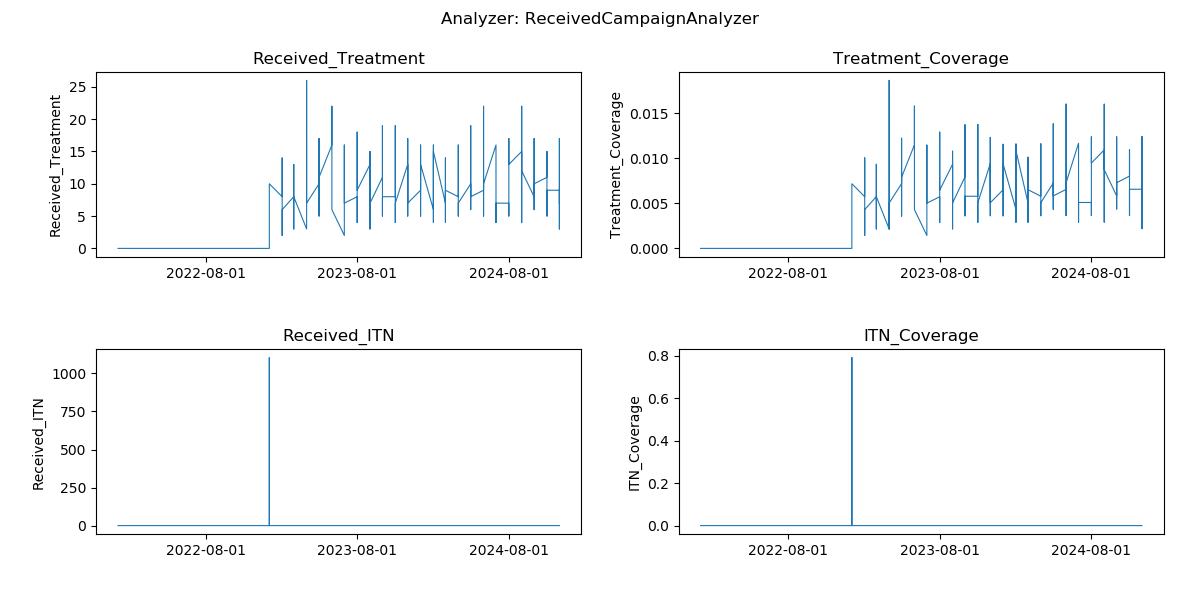
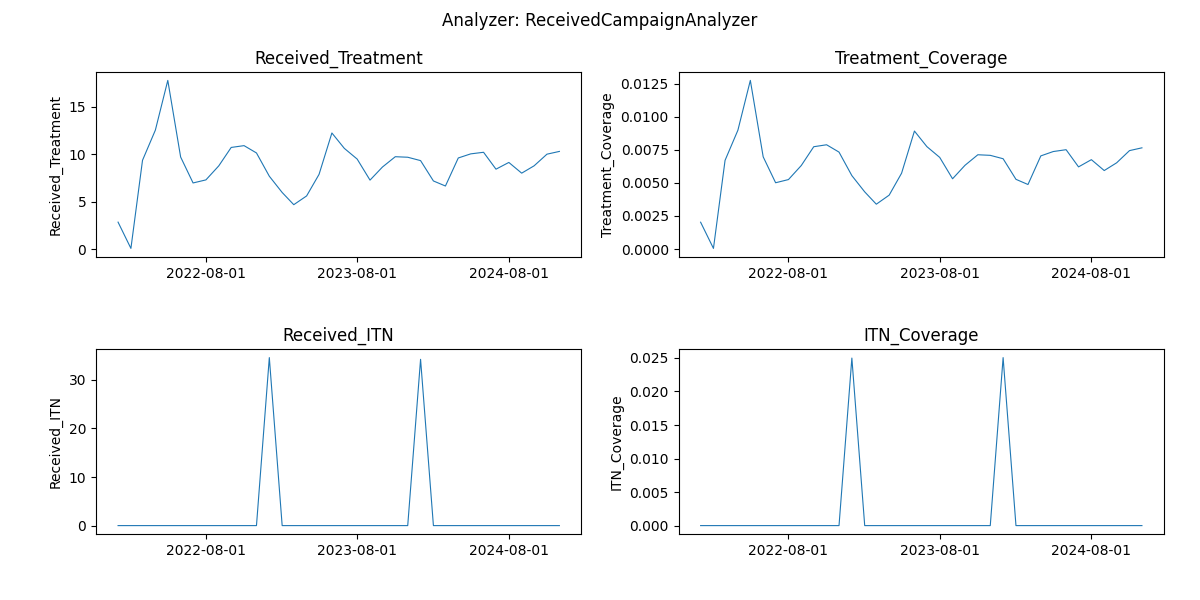
bugfix in event analyzer plot week 3a

diff --git a/analyze_exampleSim_w3a.py b/analyze_exampleSim_w3a.py
@@ -67,13 +67,17 @@ def plot_events(event_list) :
     # read in analyzed event data
     df = pd.read_csv(os.path.join(working_dir, expt_name, 'Event_Count.csv'))
     df['date'] = pd.to_datetime(df['date'])
+    cov_channel_list = ['%s_Coverage' % x[9:] for x in event_list]
+    cov_channel_list = [x for x in cov_channel_list if x in df.columns.values]
+    df = df.groupby(['date'])[event_list + cov_channel_list].agg(np.mean).reset_index()
 
     # make event plot
     fig3 = plt.figure('Events', figsize=(12,3*len(event_list)))
     fig3.subplots_adjust(hspace=0.5, left=0.08, right=0.97)
     fig3.suptitle(f'Analyzer: ReceivedCampaignAnalyzer')
+    axes = [fig3.add_subplot(len(event_list), 2, x + 1) for x in range(len(event_list)*2)]
     for ch, channel in enumerate(event_list) :
-        ax = fig3.add_subplot(len(event_list),2,ch*2+1)
+        ax = axes[ch*2]
         ax.plot(df['date'], df[channel], '-', linewidth=0.8)
         ax.set_title(channel)
         ax.set_ylabel(channel)
@@ -83,7 +87,7 @@ def plot_events(event_list) :
         coverage_channel = '%s_Coverage' % channel[9:]
         if coverage_channel not in df.columns.values :
             continue
-        ax = fig3.add_subplot(len(event_list),2,ch*2+2)
+        ax = axes[ch*2+1]
         ax.plot(df['date'], df[coverage_channel], '-', linewidth=0.8)
         ax.set_title(coverage_channel)
         ax.set_ylabel(coverage_channel)
